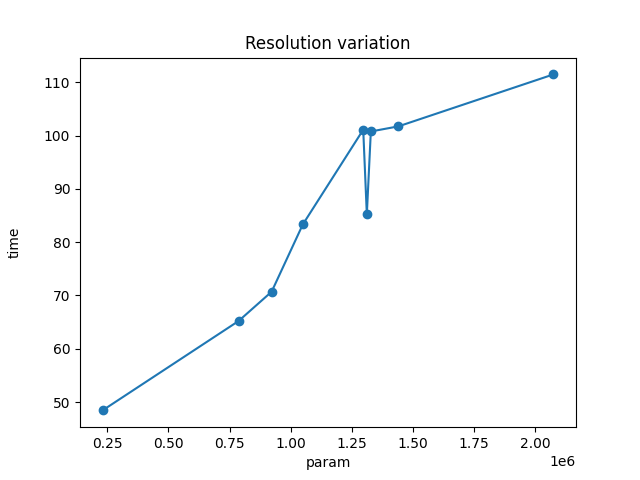
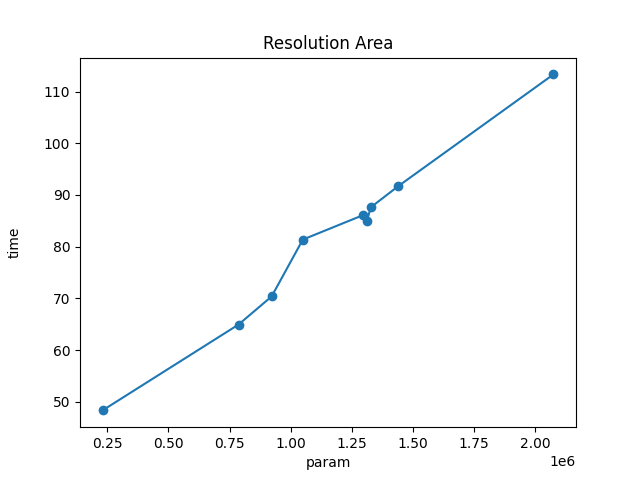
Regenerate resolution data

diff --git a/assignment1/src/util/analysis.py b/assignment1/src/util/analysis.py
@@ -23,8 +23,8 @@ with open(infile, 'r') as f:
   labels = f.readline().split(',')
   for line in f.readlines():
     x,y = line.split(',')
-    # data.append([float(x.strip()),float(y.strip())])
-    data.append([x.strip(),float(y.strip())])
+    data.append([float(x.strip()),float(y.strip())])
+    # data.append([x.strip(),float(y.strip())])
 
 
 
@@ -46,8 +46,9 @@ elif a == "resolution":
   #   res = data[i][0]
   #   area = int(res.split("X")[0])*int(res.split("X")[1])
   #   data[i][0] = area
+  # print(data)
 
-# data = sorted(data, key=lambda x: x[0])
+data = sorted(data, key=lambda x: x[0])
 
 x = [d[0] for d in data]
 y = [d[1] for d in data]
@@ -55,8 +56,8 @@ y = [d[1] for d in data]
 plt.title(plt_title)
 plt.xlabel(labels[0])
 plt.ylabel(labels[1])
-# plt.plot(x,y, "-o")
-plt.bar(x,y)
+plt.plot(x,y, "-o")
+# plt.bar(x,y)
 
 
 

diff --git a/assignment1/src/performance.cpp b/assignment1/src/performance.cpp
@@ -135,11 +135,11 @@ void method3(run_t f) {
     test_params.back().resolution = Size(width, height);
   };
 
-  add_res(1536, 864);
   add_res(1600, 900);
+  add_res(1536, 864);
+  add_res(1280, 1024);
   add_res(1440, 900);
   add_res(1366, 768);
-  add_res(1280, 1024);
   add_res(1280, 720);
   add_res(1024, 768);
   add_res(640, 360);
